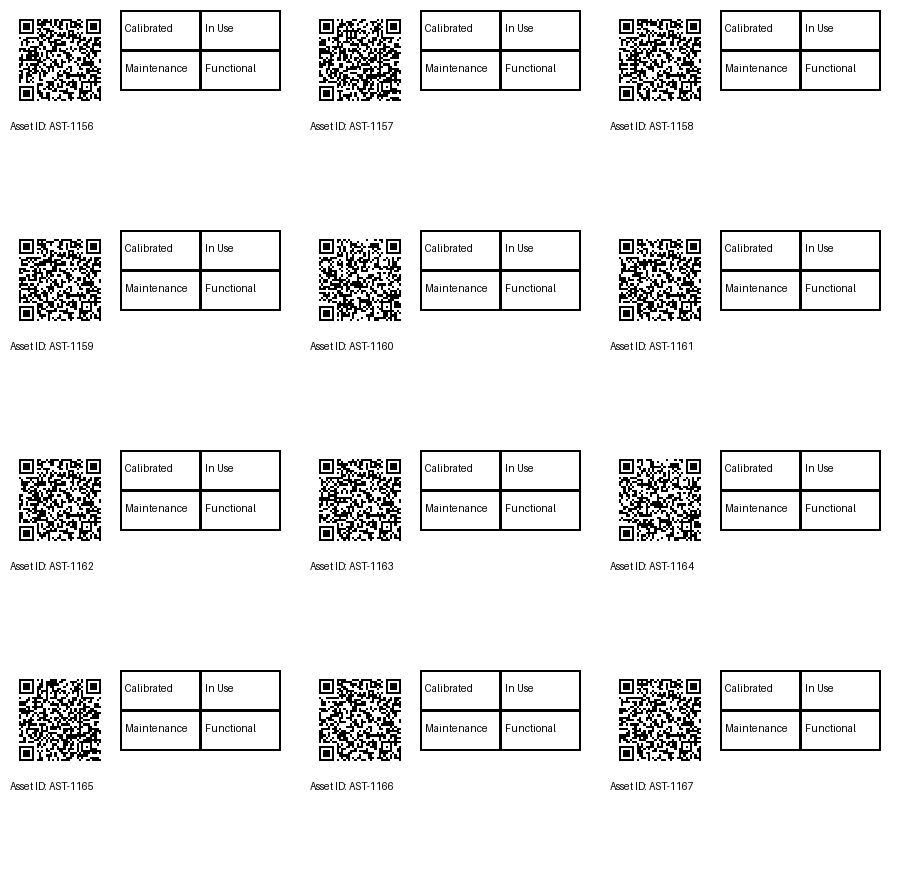
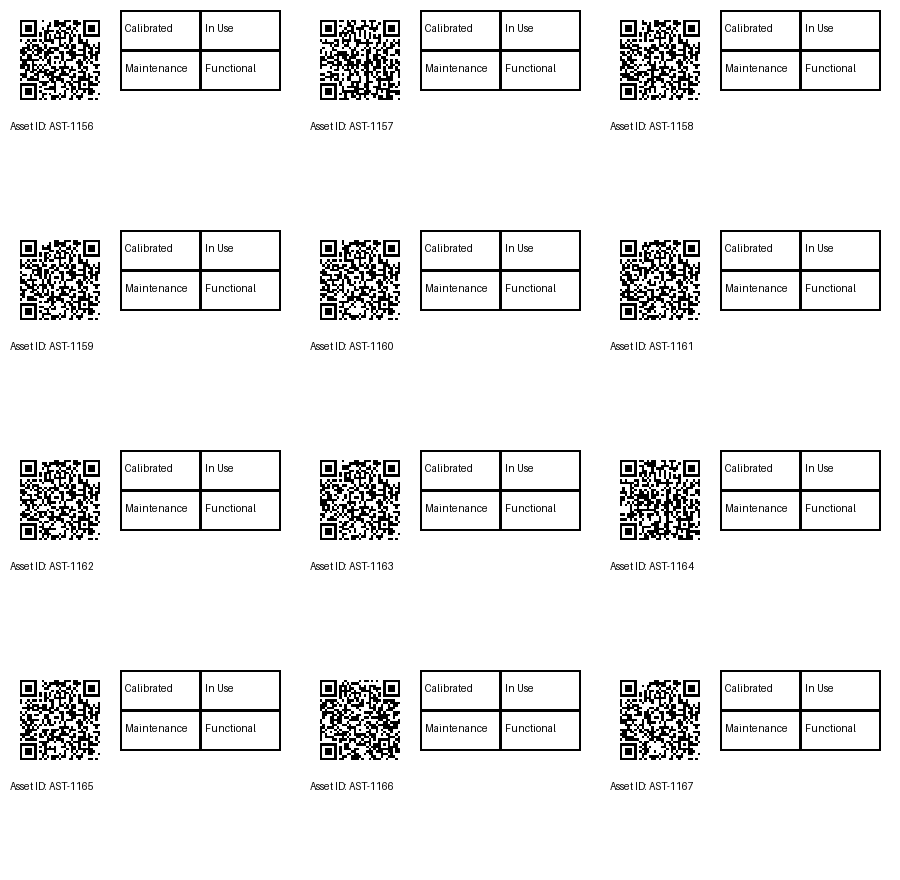
Update QR link to asset page in label generator

diff --git a/app.py b/app.py
@@ -85,6 +85,49 @@ def dashboard():
     </html>
     '''
     return render_template_string(html, rows=rows, columns=columns)
+@app.route('/asset/<asset_id>')
+def asset_detail(asset_id):
+    conn = sqlite3.connect(DB_PATH)
+    cursor = conn.cursor()
+
+    cursor.execute("PRAGMA table_info(assets)")
+    columns = [col[1] for col in cursor.fetchall()]
+
+    cursor.execute("SELECT * FROM assets WHERE Asset_ID = ?", (asset_id,))
+    row = cursor.fetchone()
+    conn.close()
+
+    if not row:
+        return f"<h2>No asset found with ID: {asset_id}</h2>"
+
+    html = '''
+    <!DOCTYPE html>
+    <html>
+    <head>
+        <title>Asset {{ asset_id }} Details</title>
+        <style>
+            body { font-family: Arial, sans-serif; background: #f9f9f9; padding: 20px; }
+            table { border-collapse: collapse; width: 100%; max-width: 600px; margin: auto; background: white; }
+            th, td { border: 1px solid #ccc; padding: 10px; text-align: left; }
+            th { background-color: #4CAF50; color: white; }
+        </style>
+    </head>
+    <body>
+        <h2>🔍 Asset Details - ID: {{ asset_id }}</h2>
+        <table>
+            {% for col, val in data %}
+            <tr>
+                <th>{{ col }}</th>
+                <td>{{ val }}</td>
+            </tr>
+            {% endfor %}
+        </table>
+        <br><a href="/dashboard">⬅ Back to Dashboard</a>
+    </body>
+    </html>
+    '''
+    data = list(zip(columns, row))
+    return render_template_string(html, asset_id=asset_id, data=data)
 
 
 @app.route('/scan', methods=['POST'])

diff --git a/generate_labels.py b/generate_labels.py
@@ -26,7 +26,7 @@ def draw_label(asset_id):
     draw = ImageDraw.Draw(img)
 
     # QR Code with asset ID in URL
-    qr_url = f"{base_url}/?asset_id={asset_id}"
+    qr_url = f"{base_url}/asset/{asset_id}"
     qr = qrcode.make(qr_url)
     qr = qr.resize((100, 100))
     img.paste(qr, (10, 10))
